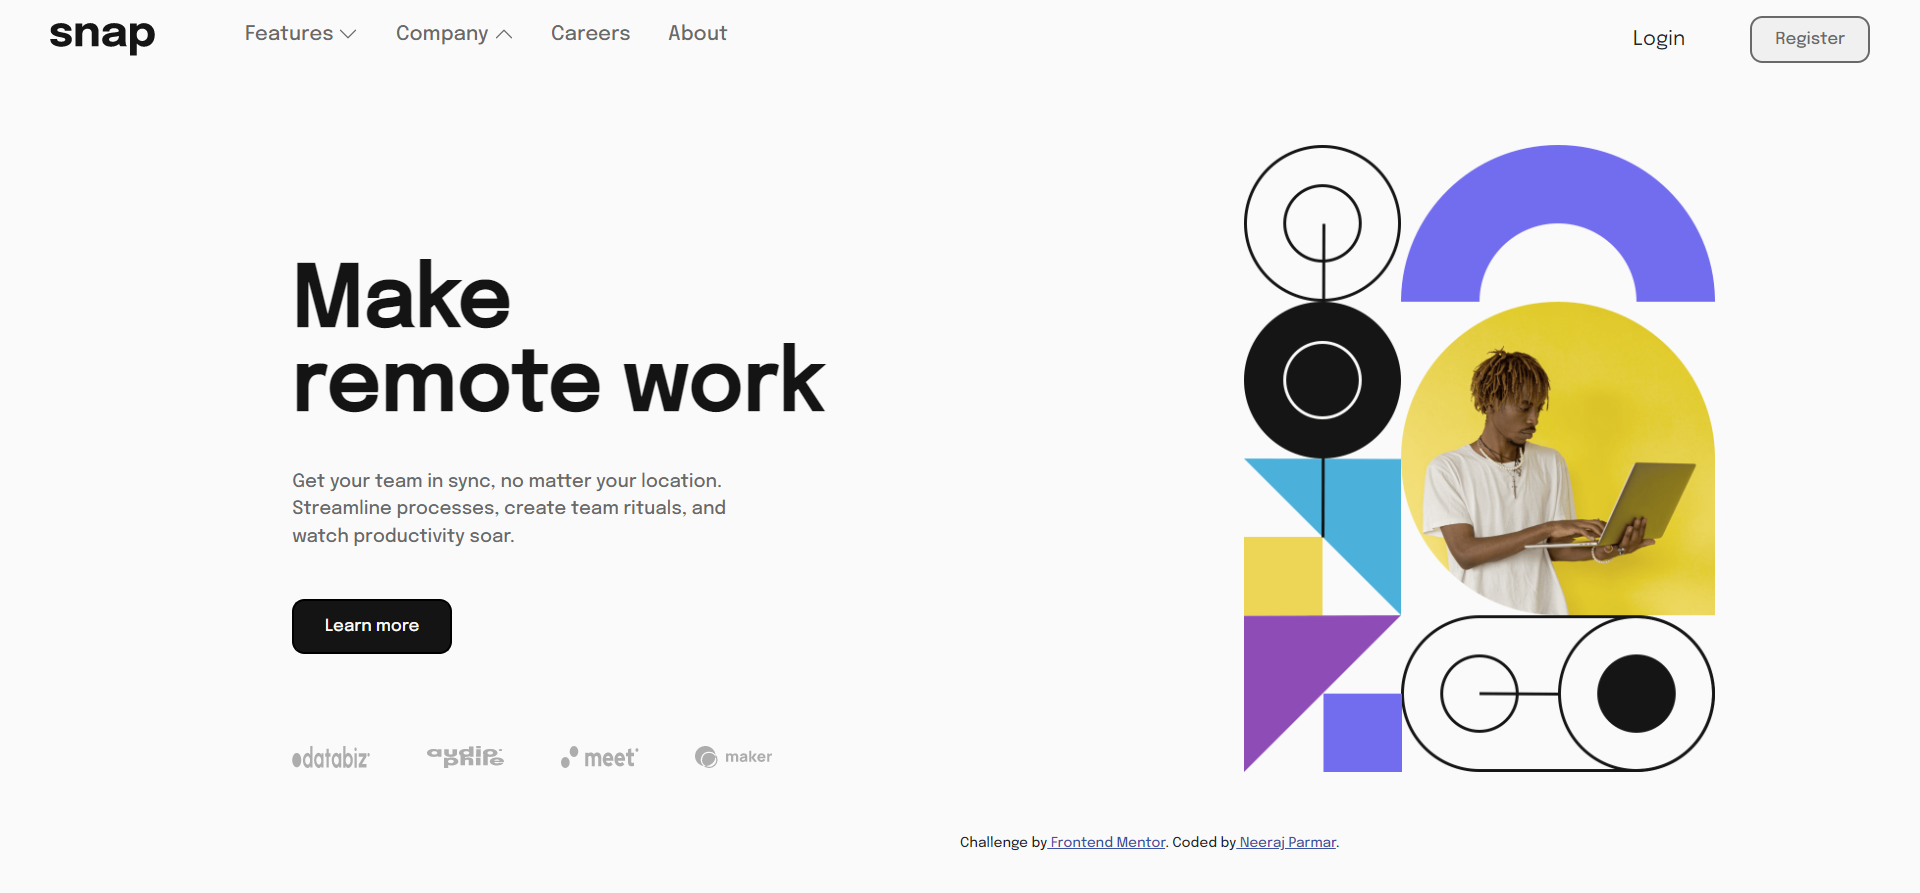
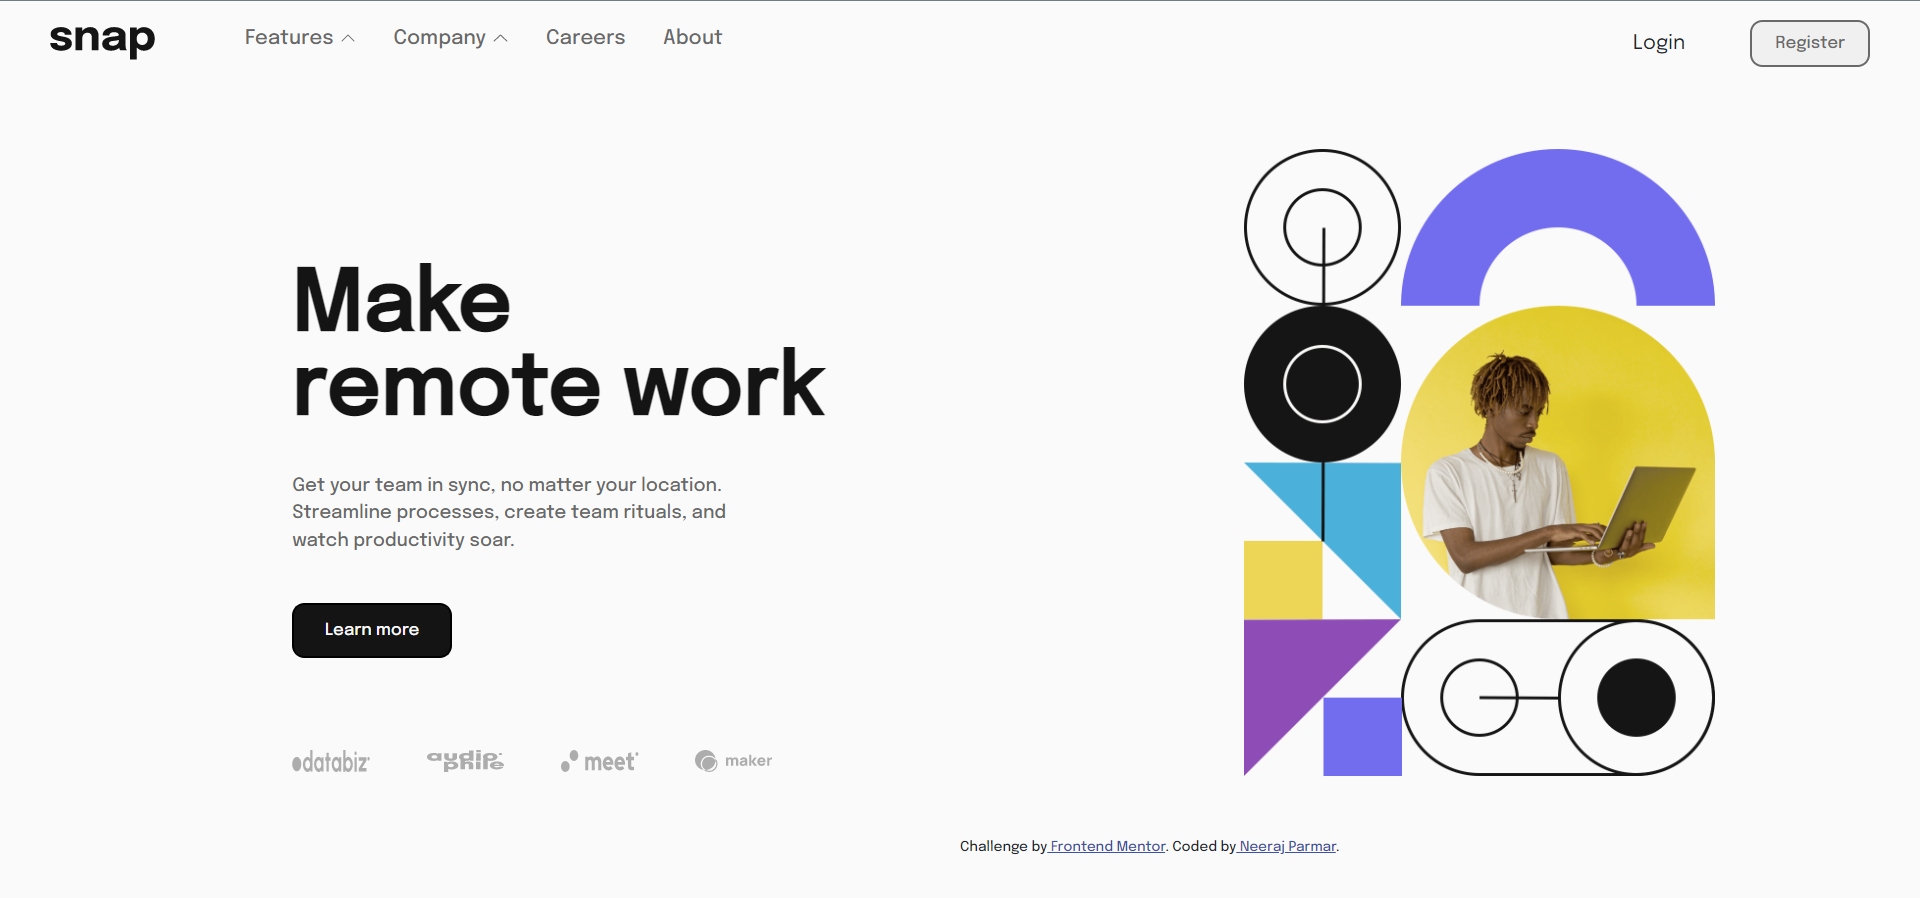
done

diff --git a/dropdown-menu/src/index.css b/dropdown-menu/src/index.css
@@ -56,11 +56,34 @@ nav ul li:hover {
   color: var(--Almost-Black);
 }
 
+nav ul li:active {
+  outline: none;
+}
+
+nav ul li div ul {
+  background-color: white;
+}
+
+nav ul li div li:first-child {
+  margin-top: 15px;
+}
+
+nav ul li div li:last-child {
+  margin-bottom: 15px;
+}
+
+nav ul li div li {
+  padding: 5px;
+  background-color: white;
+  border-radius: 5px;
+}
+
 header div:last-child {
   flex: 1;
   height: 45px;
 }
 
+/* header and sidebar */
 header button,
 #sidebar button {
   margin-left: 40px;
@@ -120,7 +143,7 @@ main section:first-child button:hover {
   color: var(--Almost-Black);
 }
 
-/* logos */
+/*4 logos at bottom*/
 main section aside {
   width: 70%;
   margin-top: 50px;
@@ -133,40 +156,16 @@ main section aside img {
   margin-right: 20px;
 }
 
-/* main section aside img:nth-child(2) {
-  width: 62px;
-  height: 23px;
-} */
-
 /* Section 2 image background*/
 main section:last-child img {
   padding-bottom: 19px;
 }
 
-/* Dropdown */
-#dropdown {
-  position: absolute;
-  background-color: white;
-  padding: 17px 25px;
-  border-radius: 8px;
-  font-size: 0.9em;
-  line-height: 2.1em;
-  box-shadow: 1px 1px 10px 1px rgba(0, 0, 0, 0.241);
-}
-
-#dropdown ul,
-#dropdown ul li {
-  margin: 0;
-  padding: 0;
-}
-
-#dropdown ul li {
-  display: flex;
-  align-items: center;
-}
-
-#dropdown ul li img {
-  margin: -4px 15px 0 0;
+/* Dropdown  icons*/
+nav ul li div img {
+  width: 16px;
+  height: 16px;
+  margin: -4px 20px 0 0;
 }
 
 /* Sidebar */
@@ -185,14 +184,17 @@ main section:last-child img {
   list-style-type: none;
   justify-content: start;
   padding: 0;
+  transition: all 0.3s linear;
 }
 
 #sidebar nav ul li {
-  margin: 10px 5px;
+  margin: 10px 15px;
 }
 
 #sidebar div {
   flex-direction: column;
+  padding: 17px 25px;
+  font-size: 0.9em;
 }
 
 #sidebar button {
@@ -224,7 +226,7 @@ main section:last-child img {
   }
 
   main {
-    padding: 10px 40px;
+    padding: 10px 25px;
   }
 
   main section aside {
@@ -245,6 +247,10 @@ main section:last-child img {
   main section:first-child {
     padding: 20px;
     padding-bottom: 0;
+  }
+
+  main section aside {
+    margin-right: 0;
   }
 }
 

diff --git a/dropdown-menu/src/Header/Nav.js b/dropdown-menu/src/Header/Nav.js
@@ -1,19 +1,27 @@
 import React from 'react'
-import Dropdown from '../Dropdown'
 import { BsChevronDown, BsChevronUp } from 'react-icons/bs'
 import FeatureDropdown from '../Dropdown/FeatureDropdown'
 import ComapnyDropdown from '../Dropdown/ComapnyDropdown'
+
+const iconStyle = { fontSize: 13, marginLeft: 5 }
 
 function Nav({ sidebar }) {
 
   const [dropdownName, setDropdownName] = React.useState('')
   const [dropdown, setDropdown] = React.useState(false)
   const handleDropdown = (e) => {
-    setDropdown(true)
-    // const margin = 40
-    // const position = [e.clientX - margin, e.clientY + margin]
-    // setPosition(position)
+    setDropdown(!dropdown)
     setDropdownName(e.target.id)
+  }
+
+  // condition to activate specific dropdown 
+  const check = (value) => dropdown
+    && dropdownName === value
+
+  const checkIcon = (value) => {
+    return check(value)
+      ? <BsChevronDown style={iconStyle} />
+      : <BsChevronUp style={iconStyle} />
   }
 
   return (
@@ -23,15 +31,18 @@ function Nav({ sidebar }) {
         mt-2
         '>
         <li id='feature'
-          onMouseOver={(e) => handleDropdown(e)}
-          onMouseOut={() => setDropdown(false)}
-        >Features <BsChevronDown />
-          {dropdown && dropdownName === 'feature' && <FeatureDropdown sidebar={sidebar} />}
+          onMouseDown={(e) => handleDropdown(e)}
+        >Features
+          {checkIcon('feature')}
+          {check('feature')
+            && <FeatureDropdown sidebar={sidebar} />}
         </li>
         <li id='company'
-          onMouseOver={(e) => handleDropdown(e)}
-          onMouseOut={() => setDropdown(false)}>Company <BsChevronUp />
-          {dropdown && dropdownName === 'company' && <ComapnyDropdown sidebar={sidebar} />}
+          onMouseDown={(e) => handleDropdown(e)}
+        >Company
+          {checkIcon('company')}
+          {check('company')
+            && <ComapnyDropdown sidebar={sidebar} />}
         </li>
         <li>Careers</li>
         <li id='about'>About</li>

diff --git a/dropdown-menu/src/Header/index.js b/dropdown-menu/src/Header/index.js
@@ -10,8 +10,12 @@ const resizePixel = 800
 
 function Header({ toggle, BackRef }) {
 
-  // const [position, setPosition] = React.useState([0, 0])
+  const iconStyle = { cursor: 'pointer' }
   const [showBtn, setShowBtn] = React.useState(true)
+  const [sidebar, setSidebar] = React.useState(false)
+  const handleSidebar = (sidebar) => {
+    setSidebar(!sidebar)
+  }
 
   React.useEffect(() => {
     toggle(resizePixel, setShowBtn)
@@ -20,11 +24,10 @@ function Header({ toggle, BackRef }) {
       ? BackRef.current.style.backgroundColor = 'rgba(0, 0, 0, 0.8)'
       : BackRef.current.style.backgroundColor = 'rgba(0, 0, 0, 0)'
 
-  })
+  }, [toggle, sidebar, BackRef])
 
-  const [sidebar, setSidebar] = React.useState(false)
-  const handleSidebar = (sidebar) => {
-    setSidebar(!sidebar)
+  if (window.innerWidth > resizePixel && sidebar) {
+    setSidebar(false)
   }
 
   return (
@@ -35,7 +38,10 @@ function Header({ toggle, BackRef }) {
     align-items-center
     ">
         <div>
-          <img src='https://raw.githubusercontent.com/nkp1111/frontend-mentor-challenges/b4dcf216922bb6f28428d89fd83e06d19a16bc04/dropdown-menu/public/images/logo.svg' className="App-logo" alt="logo" />
+          <img
+            src='https://raw.githubusercontent.com/nkp1111/frontend-mentor-challenges/b4dcf216922bb6f28428d89fd83e06d19a16bc04/dropdown-menu/public/images/logo.svg'
+            className="App-logo"
+            alt="logo" />
         </div>
 
         {showBtn
@@ -48,12 +54,13 @@ function Header({ toggle, BackRef }) {
             className='d-flex
               justify-content-end
               m-2
-              fs-1'
+              fs-1
+              w-75'
             onClick={() => handleSidebar(sidebar)}
           >
             {sidebar
-              ? <GrClose />
-              : <FaBars />}
+              ? <GrClose style={iconStyle} />
+              : <FaBars style={iconStyle} />}
           </div>
         }
       </header>

diff --git a/dropdown-menu/src/Dropdown/FeatureDropdown.js b/dropdown-menu/src/Dropdown/FeatureDropdown.js
@@ -5,11 +5,11 @@ function FeatureDropdown({ sidebar }) {
     <div
       style={sidebar !== undefined ? {
         position: 'absolute',
-        top: '60',
+        top: '100',
         left: '320'
       } :
         { backgroundColor: 'white' }}>
-      <ul>
+      <ul style={{ transition: 'linear 0.8s all' }}>
         <li>
           <img src='https://raw.githubusercontent.com/nkp1111/frontend-mentor-challenges/7737235509ce74ca8b7e24c14d6a7ecb0c56f751/dropdown-menu/public/images/icon-todo.svg'
             alt='to do list icon' />

diff --git a/dropdown-menu/src/Dropdown/ComapnyDropdown.js b/dropdown-menu/src/Dropdown/ComapnyDropdown.js
@@ -6,11 +6,11 @@ function ComapnyDropdown({ sidebar }) {
     <div
       style={sidebar !== undefined ? {
         position: 'absolute',
-        top: '60',
+        top: '80',
         left: '320'
       } :
         { backgroundColor: 'white' }}>
-      <ul>
+      <ul style={{ transition: 'linear 0.8s all' }}>
         <li>History</li>
         <li>Our Team</li>
         <li>Blog</li>

diff --git a/dropdown-menu/src/App.js b/dropdown-menu/src/App.js
@@ -22,6 +22,7 @@ function App() {
       change(true)
     }
   }
+
   return (
     <div className="App">
       <div style={{
